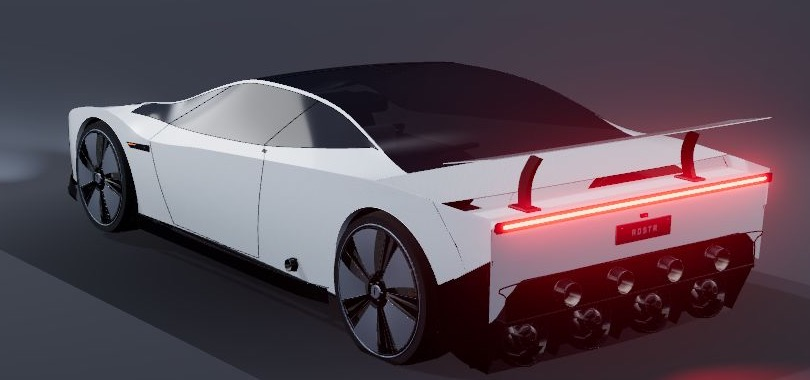
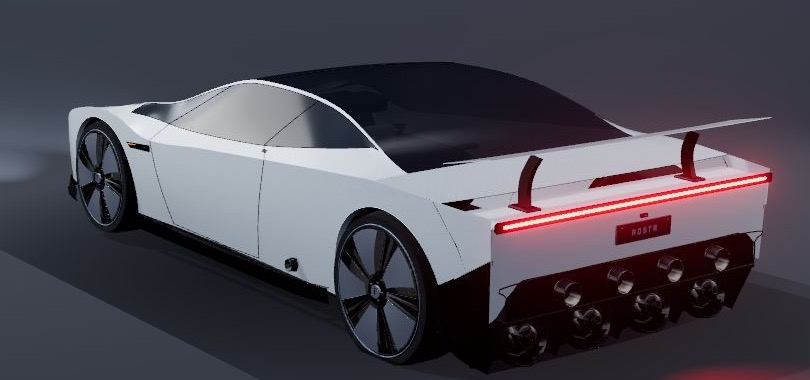
Control Roadster white paint glare while retaining brake highlights

Changed region(s): [[0.5556, 0.2605, 0.9877, 0.8974], [0.5556, 0.5211, 0.5864, 0.55]]

diff --git a/src/scripts/roadster/car-materials.ts b/src/scripts/roadster/car-materials.ts
@@ -28,7 +28,7 @@ export function createMaterials() {
     ctx.putImageData(image, 0, 0);
   }); flake.repeat.set(42, 42);
   const finish = finishes[DEFAULT_FINISH];
-  const paint = new T.MeshPhysicalMaterial({ color: finish.color, metalness: finish.metalness, roughness: finish.roughness, clearcoat: 1, clearcoatRoughness: .17, iridescence: finish.iridescence, iridescenceIOR: 1.28, iridescenceThicknessRange: [230, 350], envMapIntensity: 1.4, bumpMap: flake, bumpScale: .00004, side: T.DoubleSide });
+  const paint = new T.MeshPhysicalMaterial({ color: finish.color, metalness: finish.metalness, roughness: finish.roughness, clearcoat: .75, clearcoatRoughness: .23, iridescence: finish.iridescence, iridescenceIOR: 1.28, iridescenceThicknessRange: [230, 350], envMapIntensity: .8, bumpMap: flake, bumpScale: .00004, side: T.DoubleSide });
   const carbon = new T.MeshPhysicalMaterial({ color: 0x6a737e, map: carbonMap, bumpMap: carbonMap, bumpScale: .0008, roughness: .42, metalness: .38, clearcoat: .35, clearcoatRoughness: .25, side: T.DoubleSide });
   const black = new T.MeshStandardMaterial({ color: 0x080a0e, metalness: .25, roughness: .42, side: T.DoubleSide });
   const rubber = new T.MeshStandardMaterial({ color: 0x101112, roughness: .88, side: T.DoubleSide });
@@ -37,7 +37,7 @@ export function createMaterials() {
   const graphite = new T.MeshPhysicalMaterial({ color: 0x161b22, metalness: .72, roughness: .26, clearcoat: .45, side: T.DoubleSide });
   const machined = new T.MeshStandardMaterial({ color: 0x84939c, metalness: 1, roughness: .23, side: T.DoubleSide });
   const titanium = new T.MeshStandardMaterial({ color: 0x77716b, metalness: 1, roughness: .29, side: T.DoubleSide });
-  const glass = new T.MeshPhysicalMaterial({ color: 0x182027, metalness: 0, roughness: .085, clearcoat: 1, clearcoatRoughness: .12, envMapIntensity: 1.2, transparent: true, opacity: .97, side: T.DoubleSide });
+  const glass = new T.MeshPhysicalMaterial({ color: 0x182027, metalness: 0, roughness: .12, clearcoat: 1, clearcoatRoughness: .18, envMapIntensity: .65, transparent: true, opacity: .97, side: T.DoubleSide });
   const lens = new T.MeshPhysicalMaterial({ color: 0x27323e, metalness: .1, roughness: .11, clearcoat: 1, side: T.DoubleSide });
   const headlight = new T.MeshPhysicalMaterial({color:0x7b8792,metalness:.5,roughness:.18,clearcoat:1,emissive:0xb7d2df,emissiveIntensity:.12,side:T.DoubleSide});
   const white = new T.MeshStandardMaterial({ color: 0xdbe5ec, emissive: 0xccdfef, emissiveIntensity: 2.3, side: T.DoubleSide });

diff --git a/src/scripts/roadster/game.ts b/src/scripts/roadster/game.ts
@@ -57,7 +57,8 @@ const shadowCanvas=document.createElement('canvas');shadowCanvas.width=64;shadow
 const contact=new T.Mesh(new T.PlaneGeometry(3.1,5.7),new T.MeshBasicMaterial({map:new T.CanvasTexture(shadowCanvas),transparent:true,depthWrite:false,opacity:.85}));contact.rotation.x=-Math.PI/2;contact.position.y=.018;scene.add(contact);
 const renderTarget=new T.WebGLRenderTarget(innerWidth,innerHeight,{type:T.HalfFloatType,samples:4});
 const composer=new EffectComposer(renderer,renderTarget);composer.addPass(new RenderPass(scene,camera));
-const bloom=new UnrealBloomPass(new T.Vector2(innerWidth*.6,innerHeight*.6),.24,.45,1.15);composer.addPass(bloom);
+// Keep lamp highlights, but avoid turning the white body into a glowing surface.
+const bloom=new UnrealBloomPass(new T.Vector2(innerWidth*.6,innerHeight*.6),.10,.30,1.8);composer.addPass(bloom);
 const speedFX=new ShaderPass({uniforms:{tDiffuse:{value:null},amount:{value:0}},vertexShader:'varying vec2 vUv;void main(){vUv=uv;gl_Position=projectionMatrix*modelViewMatrix*vec4(position,1.);}',fragmentShader:`uniform sampler2D tDiffuse;uniform float amount;varying vec2 vUv;void main(){vec2 p=vUv-.5;float edge=smoothstep(.12,.65,length(p));vec2 d=p*amount*.009*edge;vec4 c=texture2D(tDiffuse,vUv)*.52;c+=texture2D(tDiffuse,vUv-d)*.24;c+=texture2D(tDiffuse,vUv-d*2.)*.14;c+=texture2D(tDiffuse,vUv-d*3.)*.1;c.rgb*=1.-smoothstep(.25,.76,length(p))*.2;gl_FragColor=c;}`});composer.addPass(speedFX);composer.addPass(new OutputPass());
 // A bounded particle pool for cold-gas plumes and impact sparks.
 const MAX=500,particlePos=new Float32Array(MAX*3),particleColor=new Float32Array(MAX*3),particleLife=new Float32Array(MAX),particleVelocity=new Float32Array(MAX*3);

diff --git a/src/scripts/roadster/car.ts b/src/scripts/roadster/car.ts
@@ -30,6 +30,6 @@ export function createCar(){
   cylinder(interior,.037,.06,[.34,.50,-.47],m.titanium,'z');
   const staticGroups=[...Object.values(sections),...wheelAssembly.staticGroups,...rear.staticGroups,interior,yoke];
   root.traverse(o=>{if(o instanceof T.Mesh){o.castShadow=true;o.receiveShadow=true;}});
-  function setFinish(index:number){const f=finishes[index];m.paint.color.set(f.color);m.paint.iridescence=f.iridescence;m.paint.metalness=f.metalness;m.paint.roughness=f.roughness;}
+  function setFinish(index:number){const f=finishes[index];m.paint.color.set(f.color);m.paint.iridescence=f.iridescence;m.paint.metalness=f.metalness;m.paint.roughness=f.roughness;m.paint.envMapIntensity=index===1?.8:1.4;m.paint.clearcoat=index===1?.75:1;m.paint.clearcoatRoughness=index===1?.23:.17;}
   return {root,body,paint:m.paint,wheels:wheelAssembly.wheels,steering:wheelAssembly.steering,wing:rear.wing,wingStruts:rear.wingStruts,tailSpill:rear.tailSpill,wingRestHeight:rear.wingRestHeight,jets:rear.jets,red:m.red,staticGroups,setFinish};
 }

diff --git a/src/scripts/roadster/finishes.ts b/src/scripts/roadster/finishes.ts
@@ -3,7 +3,7 @@ export const DEFAULT_FINISH = 1;
 // Shared by the rendered paint and the unobtrusive, label-free color swatches.
 export const finishes = [
   { name: 'Iridescent violet', color: '#7940b2', swatch: 'linear-gradient(135deg,#7a43bd,#ac82d6 48%,#5367a2)', iridescence: .3, metalness: .52, roughness: .27 },
-  { name: 'Pearl white', color: '#e5e6e3', swatch: '#e5e6e3', iridescence: 0, metalness: .08, roughness: .29 },
+  { name: 'Pearl white', color: '#d8dad7', swatch: '#e5e6e3', iridescence: 0, metalness: .08, roughness: .32 },
   { name: 'Liquid silver', color: '#a0a7b0', swatch: '#a0a7b0', iridescence: .04, metalness: .9, roughness: .24 },
   { name: 'Crimson', color: '#92182d', swatch: '#b72d43', iridescence: .12, metalness: .55, roughness: .26 },
   { name: 'Ion blue', color: '#17658c', swatch: '#288ab5', iridescence: .25, metalness: .68, roughness: .25 },

diff --git a/docs/roadster/README.md b/docs/roadster/README.md
@@ -83,7 +83,7 @@ Compared the rear-quarter and deployed-airfoil source photographs again, concent
 - Replaced bright flared thrusters with short graphite barrels, thin machined lips, tapered metallic inner walls, recessed dark throats, mounting collars and small fasteners. The rear mouths are 104 mm across in model coordinates.
 - Increased the fan sweep from 218 mm to 254 mm and the hub base diameter from 52 mm to 112 mm. Broader swept blades, deep ducts and conical hubs better follow the visible reference proportions. These are photographic modeling estimates, not published engineering dimensions; blade construction and hidden hardware remain interpretive.
 - Added six clickable, keyboard-accessible swatches without visible labels or a surrounding panel. Clicks and number keys share one selection state. Space/Enter activate a focused swatch without firing rockets; selecting a color returns focus to the game.
-- Made pearl white the starting finish and removed its iridescence. Reduced violet's color shift and softened the clearcoat so body contours remain easier to read. Purple, silver, red, blue and black remain available.
+- Made pearl white the starting finish and removed its iridescence. Reduced violet's color shift and softened the white clearcoat, glass reflections and bloom so bright rear-quarter highlights do not obscure the body or lamp surround. Purple, silver, red, blue and black remain available.
 
 [Rear hardware close-up](review/rear-hardware.jpg), [rear quarter](review/rear.png), [braking state](review/braking.jpg).
 
